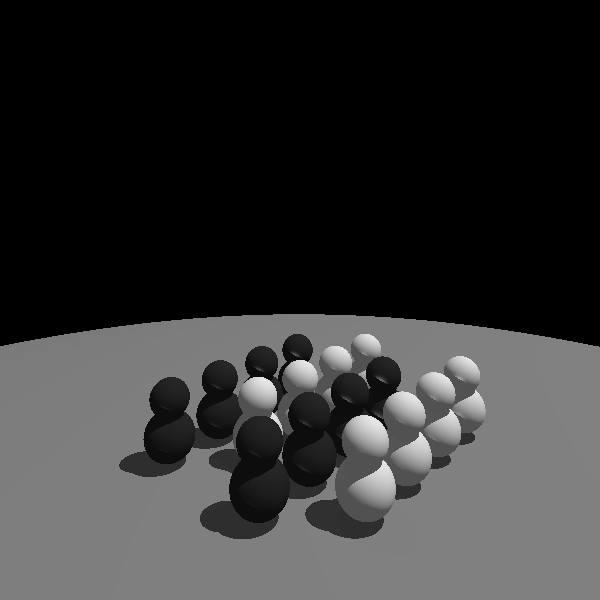
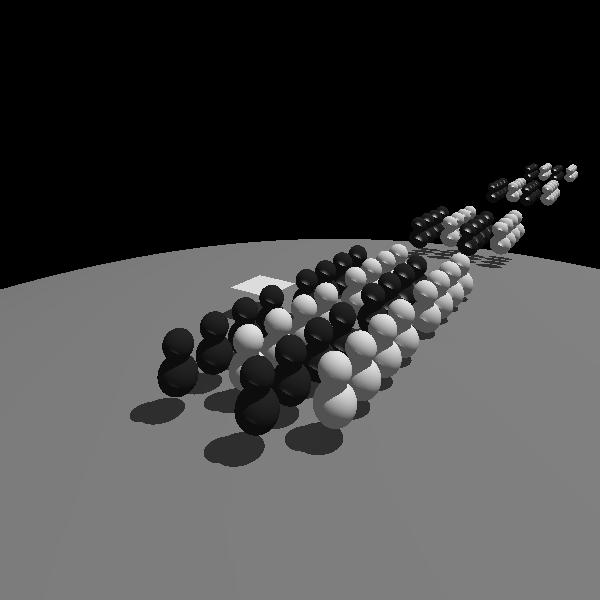
a04

Changed region(s): [[0.0, 0.27, 1.0, 0.9]]

diff --git a/src/cgg/A04.java b/src/cgg/A04.java
@@ -8,6 +8,7 @@ import tools.Group;
 import tools.Lichtquelle;
 import tools.Mat44;
 import tools.Plane;
+import tools.Quader;
 import tools.Shape;
 import tools.SimpleCamera;
 import tools.SimpleRayTracer;
@@ -19,23 +20,30 @@ public class A04 {
     
     public static void main(String[] args){
 
-        Vec3 cameraPos = new Vec3(25,20,-50);  // 平移，Y越大越高，Z越负越远
-        Vec3 cameraTarget = new Vec3(14,5, -16); // 看向场景中心
+        Vec3 cameraPos = new Vec3(28,25,-80);  // 平移，Y越大越高，Z越负越远
+        Vec3 cameraTarget = new Vec3(15,10, -22); // 看向场景中心
         SimpleCamera camera = new SimpleCamera(Math.PI / 3, 600, 600, cameraPos, cameraTarget);
 
         // 拆分黑白小人作为组
         List<Shape> scene = new ArrayList<>();
+
+        // 循环创建多个4×4雪人矩阵
+        int matrixCount = 4; // 要创建的矩阵数量（比如4个）
+        double matrixSpacing = 60; // 矩阵之间的前后间距（Z轴）
+        for (int i = 0; i < matrixCount; i++) {
+        // 每个矩阵封装为独立Group
+        Group snowmanMatrixGroup = new Group();
+
+
         Group blackSnowmanGroup = new Group();
         Group whiteSnowmanGroup = new Group();
-
-        // 给Group添加组合变换 
-        // 1. 黑色雪人组：先缩放1.2倍 → 绕Y轴旋转30度 → 右移10单位
+        // 1. 黑色雪人组：
         Mat44 blackTrans = Mat44.scale(1, 1, 1)
                                 .multiply(Mat44.rotateY(0))
                                 .multiply(Mat44.translate(1, 0, -1));
         blackSnowmanGroup.setTransform(blackTrans);
 
-        // 2. 白色雪人组：先缩小0.8倍 → 绕Y轴旋转-30度 → 左移5单位+上移2单位
+        // 2. 白色雪人组：
         Mat44 whiteTrans = Mat44.scale(1, 1, 1)
                                 .multiply(Mat44.rotateY(0))
                                 .multiply(Mat44.translate(1.1, 0, 3.2));
@@ -43,9 +51,27 @@ public class A04 {
 
 
         createSnowmanGrid(4, 4,blackSnowmanGroup, whiteSnowmanGroup);
+        snowmanMatrixGroup.addChild(blackSnowmanGroup);
+        snowmanMatrixGroup.addChild(whiteSnowmanGroup);
+
+        // 平移当前矩阵：沿Z轴前后排列（i=0最前，i越大越往后）
+        double zOffset = -21 + i * matrixSpacing; // 基于原Z轴偏移，叠加矩阵间距
+        Mat44 matrixTrans = Mat44.translate(0, 0, zOffset);
+        snowmanMatrixGroup.setTransform(matrixTrans);
+
+        // 加入场景
+        scene.add(snowmanMatrixGroup);
 
         scene.add(blackSnowmanGroup);
         scene.add(whiteSnowmanGroup);
+
+        // 创建6x6x6立方体
+        Quader box = new Quader(6, new Color(0.1, 0.5, 0.9)); // 6x6x6正方体，蓝色
+        Mat44 boxTrans = Mat44.translate(-12, 3, -30); // Y=3：底部贴地面（6/2=3）
+        box.setTransform(boxTrans);
+        scene.add(box);
+
+
 
         Vec3 planeCenter = new Vec3(0,-300,-22); //球心位置
         double planeRadius = 300;   //球心半径
@@ -87,11 +113,8 @@ public class A04 {
         }
 
         image.writePng("a04");
+        }
     }    
-
-    
-
-
 
     private static Group createSnowman(Vec3 baseCenter, double baseRadius, Color color) {
         Group snowman = new Group();

diff --git a/src/tools/Ebene.java b/src/tools/Ebene.java
@@ -1,0 +1,66 @@
+package tools;
+
+import tools.Color;
+
+public class Ebene implements Shape {
+    public enum Ausdehnung { UNBEGRENZT, KREISRUND, QUADRATISCH }
+
+    private final Ausdehnung typ;
+    private final double parameter;
+    private final Color color;
+
+    // 构造方法
+    public Ebene(Color color) {
+        this(Ausdehnung.UNBEGRENZT, 0, color);
+    }
+
+    public Ebene(double radius, Color color) {
+        this(Ausdehnung.KREISRUND, radius, color);
+    }
+
+    public Ebene(double seite, boolean istQuadrat, Color color) {
+        this(Ausdehnung.QUADRATISCH, seite, color);
+    }
+
+    private Ebene(Ausdehnung typ, double parameter, Color color) {
+        this.typ = typ;
+        this.parameter = parameter;
+        this.color = color;
+    }
+
+    // 仅支持Y=0平面求交（无叉乘）
+    @Override
+    public Hit intersect(Ray ray) {
+        Vec3 rayDir = ray.direction();
+        Vec3 rayOrig = ray.origin();
+
+        // Y=0平面求交
+        if (Math.abs(rayDir.y()) < 1e-9) return null;
+        double t = -rayOrig.y() / rayDir.y();
+        if (t < ray.tmin() || t > ray.tmax()) return null;
+
+        Vec3 hitPos = ray.at(t);
+
+        // 范围判断（仅X/Z轴）
+        boolean inBounds = switch (typ) {
+            case UNBEGRENZT -> true;
+            case KREISRUND -> hitPos.x()*hitPos.x() + hitPos.z()*hitPos.z() <= parameter*parameter + 1e-9;
+            case QUADRATISCH -> {
+                double halb = parameter/2.0;
+                yield Math.abs(hitPos.x()) <= halb + 1e-9 && Math.abs(hitPos.z()) <= halb + 1e-9;
+            }
+        };
+        if (!inBounds) return null;
+
+        // 法向量
+        Vec3 normal = new Vec3(0, 1, 0);
+        if (rayDir.y() > 0) normal = normal.multiply(-1);
+
+        return new Hit(t, hitPos, normal, this);
+    }
+
+    public Color getColor() {
+        return color;
+    }
+
+}

diff --git a/src/tools/Quader.java b/src/tools/Quader.java
@@ -1,0 +1,45 @@
+package tools;
+
+import tools.Ebene;
+
+public class Quader extends Group {
+    // 正方体构造方法（边长+颜色）
+    public Quader(double seite, Color color) {
+        // 6个正方形面，边长=seite
+        Ebene seiteQuad = new Ebene(seite, true, color);
+
+        // 前面（Z=seite/2）
+        addFace(seiteQuad, 0, 0, seite/2, 0, 0, 0);
+        // 后面（Z=-seite/2，旋转180°）
+        addFace(seiteQuad, 0, 0, -seite/2, 0, 0, Math.PI);
+        // 左面（X=-seite/2，旋转-90°）
+        addFace(seiteQuad, -seite/2, 0, 0, 0, -Math.PI/2, 0);
+        // 右面（X=seite/2，旋转90°）
+        addFace(seiteQuad, seite/2, 0, 0, 0, Math.PI/2, 0);
+        // 上面（Y=seite/2，旋转-90°）
+        addFace(seiteQuad, 0, seite/2, 0, -Math.PI/2, 0, 0);
+        // 下面（Y=-seite/2，旋转90°）
+        addFace(seiteQuad, 0, -seite/2, 0, Math.PI/2, 0, 0);
+    }
+
+    // 辅助方法：添加单个面（平移+旋转）
+    private void addFace(Ebene seite, double tx, double ty, double tz, double rx, double ry, double rz) {
+        Group face = new Group();
+        Mat44 trans = Mat44.rotateX(rx)
+                           .multiply(Mat44.rotateX(rx))
+                           .multiply(Mat44.rotateY(ry));
+        face.setTransform(trans);
+        face.addChild(seite);
+        this.addChild(face);
+    }
+
+    // 默认6x6x6蓝色正方体
+    public Quader() {
+        this(6, new Color(0.1, 0.5, 0.9));
+    }
+
+    // 兼容原有长方体构造方法
+    public Quader(double l, double b, double h, Color color) {
+        this(Math.min(l, Math.min(b, h)), color); // 强制正方体
+    }
+}

diff --git a/src/tools/Mat44.java b/src/tools/Mat44.java
@@ -315,6 +315,23 @@ public final class Mat44 {
     }
 
     /**
+     * 创建绕X轴旋转矩阵（弧度制）
+     */
+    public static Mat44 rotateX(double angle) {
+        Mat44 mat = new Mat44();
+        double cos = Math.cos(angle);
+        double sin = Math.sin(angle);
+        // 绕X轴旋转矩阵（列主序）
+        mat.set(1, 1, cos);
+        mat.set(1, 2, sin);
+        mat.set(2, 1, -sin);
+        mat.set(2, 2, cos);
+        mat.set(0, 0, 1.0);
+        mat.set(3, 3, 1.0);
+        return mat;
+    }
+
+    /**
      * 创建平移矩阵（支持int/double参数）
      */
     public static Mat44 translate(double tx, double ty, double tz) {
@@ -337,6 +354,12 @@ public final class Mat44 {
 
 
     private double[] values;
+
+
+    public static Mat44 rotateZ(double rz) {
+        // TODO Auto-generated method stub
+        throw new UnsupportedOperationException("Unimplemented method 'rotateZ'");
+    }
 }
 
 

diff --git a/src/tools/Vec3.java b/src/tools/Vec3.java
@@ -130,8 +130,17 @@ public final record Vec3(double x, double y, double z) {
     return x * other.x + y * other.y + z * other.z;
   }
 
+  // 添加：叉乘方法
+  public Vec3 cross(Vec3 other) {
+    double cx = y * other.z - z * other.y;
+    double cy = z * other.x - x * other.z;
+    double cz = x * other.y - y * other.x;
+    return new Vec3(cx, cy, cz);
+  }
+
+
   public Vec3 negate() {
     return new Vec3(-x, -y, -z);
-}
+  }
 
 }
